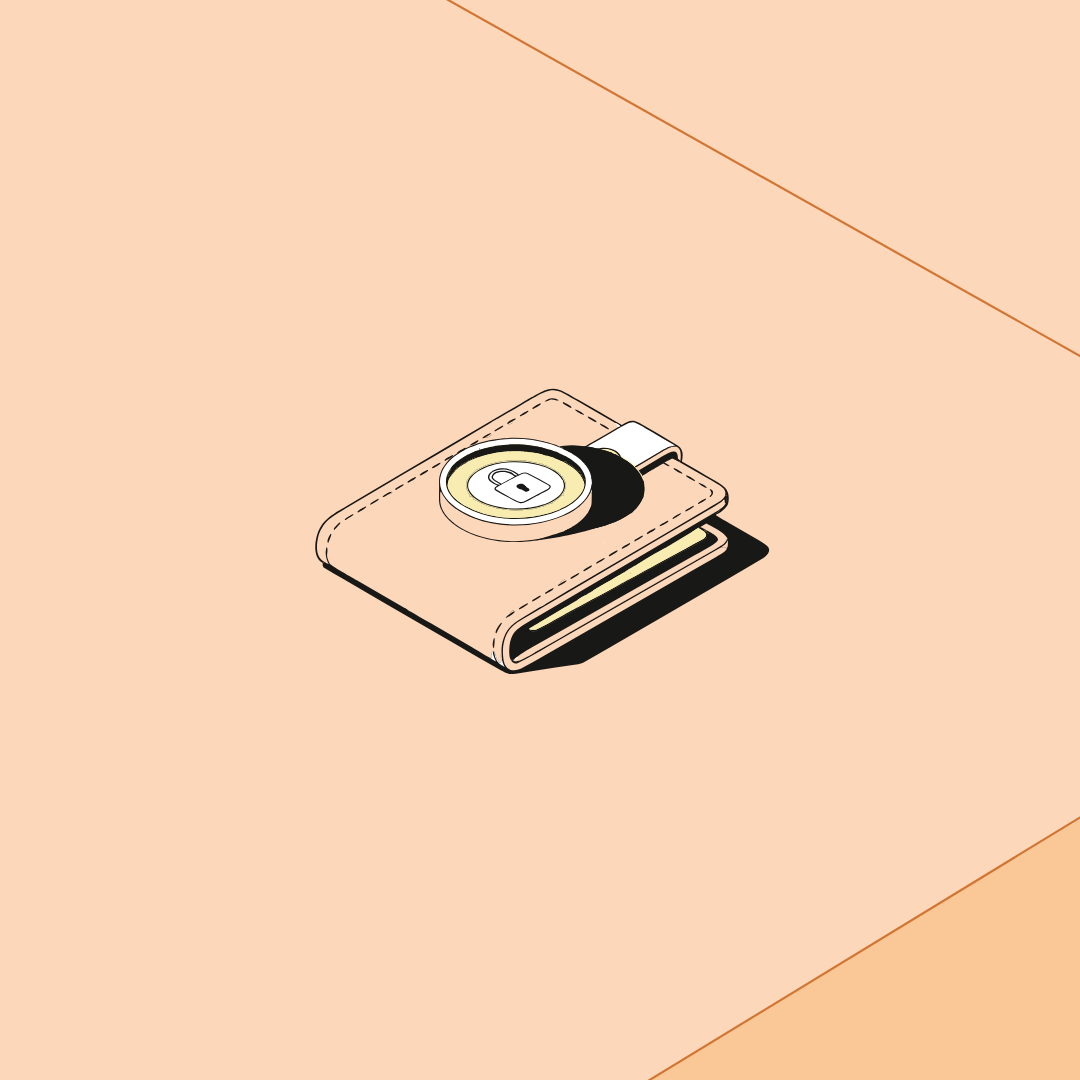
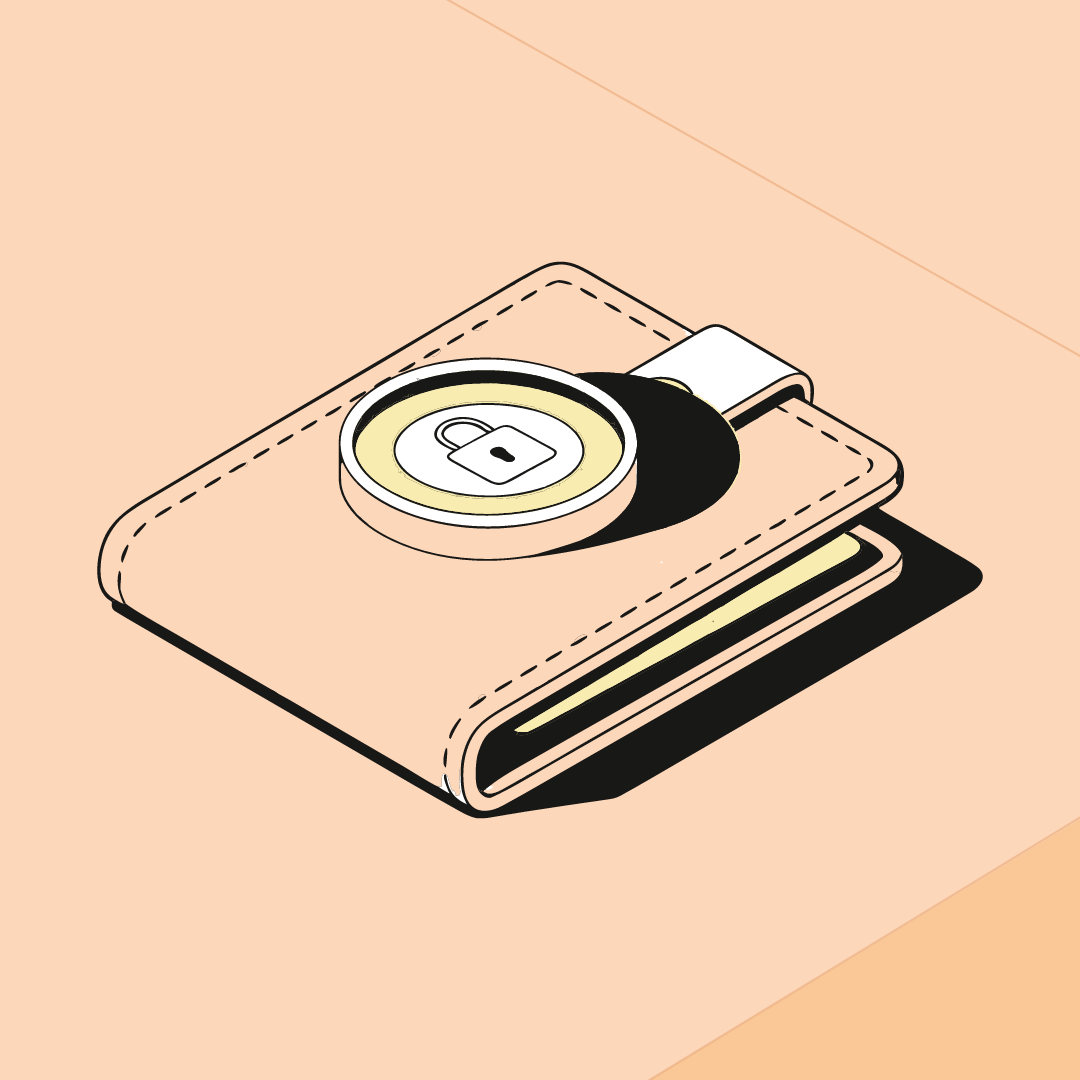
docs: refresh the readme and example scenes
Describe the close-up layout, the compact phone panels, and the compose
source field. Regenerate the three example SVG and PNG files from the
current tag fallback.

diff --git a/scripts/export-examples.test.ts b/scripts/export-examples.test.ts
@@ -1,9 +1,11 @@
 import { mkdirSync, writeFileSync } from 'node:fs';
+import { Resvg } from '@resvg/resvg-js';
 import { describe, it } from 'vitest';
 import { composeScene } from '../src/server/composeScene.ts';
 import { composePick } from '../src/core/compose.ts';
 import { exportSvg } from '../src/core/exportSvg.ts';
 import { resolvePalette } from '../src/core/recolor.ts';
+import { FORMATS } from '../src/model/formats.ts';
 import type { Composition, FormatId } from '../src/model/types.ts';
 
 const examples: {
@@ -64,7 +66,13 @@ describe('example compositions', () => {
           composition,
           resolvePalette(example.paletteId, []),
         );
+        const png = new Resvg(markup, {
+          fitTo: { mode: 'width', value: FORMATS[example.format].w },
+        })
+          .render()
+          .asPng();
         writeFileSync(`examples/${example.slug}.svg`, markup);
+        writeFileSync(`examples/${example.slug}.png`, png);
         console.log(
           example.slug,
           pick.main.join('+'),

diff --git a/README.md b/README.md
@@ -10,24 +10,40 @@
 pnpm install
 pnpm dev
 pnpm test
+pnpm lint
+pnpm build
 pnpm smoke:nvidia
 ```
 
-`pnpm dev` открывает редактор и тот же `POST /api/compose`, что уйдёт на Vercel. `pnpm test` гоняет Vitest. `pnpm smoke:nvidia` делает один живой запрос и печатает id и модель, сам ключ не печатает. В CI его нет.
+`pnpm dev` открывает редактор и тот же `POST /api/compose`, что уйдёт на Vercel. `pnpm test` гоняет Vitest. `pnpm lint` — ESLint и Prettier. `pnpm build` проверяет типы, собирает клиент в `dist` и склеивает функцию `api/compose.js`. `pnpm smoke:nvidia` делает один живой запрос и печатает id и модель, сам ключ не печатает. В CI его нет.
 
 Ключ `NVIDIA_API_KEY` кладётся в `.env.local` (или в `.env`) локально и в Environment Variables проекта Vercel. Сервер читает сначала `process.env`, затем `.env.local`, затем `.env`. Префикс `VITE_` не используется: с ним Vite положил бы ключ в браузер. Образец — `.env.example`.
 
+## Форматы
+
+| Формат      | Кадр      | Где в редакторе |
+| ----------- | --------- | --------------- |
+| горизонталь | 1200×630  | landscape       |
+| квадрат     | 1080×1080 | square          |
+| вертикаль   | 1080×1620 | portrait        |
+
+Размер S или L задаёт заливку героя и какой файл библиотеки берётся. Палитра — одна из трёх схем (Сирень, Персик, Бирюза) или свой JSON.
+
 ## Архитектура
 
-Реестр `src/library/registry.ts` грузит 40 SVG объектов и 6 фонов схем. У каждого объекта id из манифеста (`book`, `phone`, `puzzle`, `coin`, `headphones`, `lamp`, `flowers`, `wallet`, `folder`, `pen`). Внутри файлов Figma повторяет `Vector` и `clip0_0_4`, поэтому id получают префикс: объект — `{objectId}-{size}-{role}-`, фон схемы — `bg-{scheme}-{size}-`, экземпляр на сцене — ещё и `{uid}-`.
+Реестр `src/library/registry.ts` грузит 40 SVG объектов и 6 фонов схем. У каждого объекта id из манифеста (`book`, `phone`, `puzzle`, `coin`, `headphones`, `lamp`, `flowers`, `wallet`, `folder`, `pen`). Внутри файлов Figma повторяет `Vector` и `clip0_0_4`, поэтому `rewriteSvgIds` переписывает id, `url(#id)` и `href`: объект — `{objectId}-{size}-{role}-`, фон схемы — `bg-{scheme}-{size}-`, экземпляр на сцене — ещё и `{uid}-`. Следующий `obj-N` выдаёт `nextUid`.
 
 Перекраска идёт по слотам, не по ближайшему цвету. Исходный hex lilac → слот (`bg.base`, `bg.mid`, `bg.dark`, `ink`, `obj.1`, `obj.2`, `obj.3`, `paper`) → цвет того же слота в выбранной схеме. Фоновые версии монохромные и берут только слоты фона. Белый `paper` в фонах разрешён.
 
-Раскладка — шаблон (`under-title`, `offset`, `compact`). По умолчанию от двух объектов берётся компактный: группа держится у центра, масштаб один на всю сцену. На книгу, папку и кошелёк можно ставить телефон, пазл, ручку и монету по правилам опоры (на папку — пазл, ручка, монета; на кошелёк — монета). Наушники, лампа и ваза только рядом, не поверх. Кто ниже в кадре, тот ближе и выше по z. Фон не перекрывает главные объекты, в кадре видно не меньше 60% его bbox, центр фона остаётся внутри кадра.
+Раскладка — шаблон (`under-title`, `offset`, `compact`). Сначала выбирается герой, самый крупный главный объект, и масштабируется один раз на всю сцену. На L его сторона занимает около 82% короткой стороны кадра (середина полосы 75–90%), на S — около 72% (середина 65–80%). Герой может выходить за край. Второй план садится вплотную и кадр обрезает его примерно до половины бокса: в квадрате и вертикали это один объект (всего два), в горизонтали — до двух. На книгу, папку и кошелёк можно ставить телефон, пазл, ручку и монету по правилам опоры (на папку — пазл, ручка, монета; на кошелёк — монета). Наушники, лампа и ваза только рядом, не поверх. Если главных больше слотов, герой чуть уменьшается внутри допустимой полосы, пока все названные главные остаются в кадре. Кто ниже в кадре, тот ближе и выше по z. Фон не перекрывает главные объекты, в кадре видно не меньше 60% его bbox, центр фона остаётся внутри кадра.
 
-`POST /api/compose` принимает `{ text, format }`. Цепочка NVIDIA: `nvidia/nemotron-3.5-lightning-30b-a3b` с `chat_template_kwargs.enable_thinking: false`, при ошибке, таймауте (~9 с) или 429 — `z-ai/glm-5.3-flash`, затем фолбэк по тегам. Без ключа сразу теги. Клиент ключ не отправляет.
+`POST /api/compose` принимает `{ text, format }`. Цепочка NVIDIA: `nvidia/nemotron-3.5-lightning-30b-a3b` с `chat_template_kwargs.enable_thinking: false`, при ошибке, таймауте (~9 с) или 429 — `z-ai/glm-5.3-flash`, затем фолбэк по тегам. Без ключа сразу теги. Ответ — JSON с полями `main`, `background`, `template`, `reason` и `source`: `model` или `tags`. У ответа модели есть ещё `model`. Клиент ключ не отправляет.
+
+На ширине до 640px холст стоит первым, под ним панель, строка запроса, библиотека и инспектор. Блоки «Режим», «Масштаб» и «Палитра JSON» свёрнуты; на широком экране они раскрыты. Кнопки панели листаются по горизонтали.
 
 «Скачать SVG» пишет файл размера кадра. У каждого объекта именованная группа `<g>`, id только ASCII (`^[A-Za-z0-9_-]+$`), кириллица остаётся в `data-name`. Корень — группа `composition`, обрезка — `clipPath` `frame-clip`. Нет `<use>`, `<image>` и `foreignObject`, цвета запечены в заливки. Файл импортируется в Figma как редактируемые слои.
+
+Состояние сцены — Zustand (`src/store`). Редьюсер композиции, разбор сохранённой палитры, строка запроса и горячие клавиши разложены на небольшие функции. Клиент и `api/compose.js` собираются раздельно: esbuild кладёт серверный обработчик в один файл без импортов `.ts`.
 
 ## Допущения
 
@@ -35,17 +51,17 @@ pnpm smoke:nvidia
 
 ## Инструменты
 
-Редактор и сервер написаны в Cursor: cloud agents, ведущая модель grok-4.7 high, хелперы composer-2.5. Экспорт сверялся импортом в Figma через Figma MCP. В рантайме режима «Смысл» отвечают модели NVIDIA build API, перечисленные выше.
+Редактор и сервер написаны в Cursor: cloud agents, ведущая модель grok-4.7, хелперы composer-2.5. Экспорт сверялся импортом в Figma через Figma MCP. В рантайме режима «Смысл» отвечают модели NVIDIA build API, перечисленные выше.
 
 ## Примеры
 
-Три сцены собраны без ключа NVIDIA, фолбэком по тегам. Это честный результат `composeScene` без `apiKey`, не ответ модели.
+Три сцены собраны без ключа NVIDIA, фолбэком по тегам (`source: "tags"`). Это результат `composeScene` без `apiKey`, не ответ модели. Размер L.
 
-| Запрос         | Формат    | Схема  | Объекты               |
-| -------------- | --------- | ------ | --------------------- |
-| учёба          | 1200×630  | Сирень | книга, ручка на книге |
-| деньги         | 1080×1080 | Персик | монета на кошельке    |
-| работа в офисе | 1080×1620 | Бирюза | лампа и папка рядом   |
+| Запрос         | Формат    | Схема  | Объекты                                     |
+| -------------- | --------- | ------ | ------------------------------------------- |
+| учёба          | 1200×630  | Сирень | книга крупно, ручка лежит на книге          |
+| деньги         | 1080×1080 | Персик | кошелёк крупно, монета на нём, край обрезан |
+| работа в офисе | 1080×1620 | Бирюза | лампа крупно, папка обрезана нижним краем   |
 
 ![Учёба, горизонталь, Сирень](examples/ucheba-landscape-lilac.png)
 
@@ -59,14 +75,20 @@ pnpm smoke:nvidia
 
 [SVG](examples/office-portrait-teal.svg)
 
-PNG — скриншот того же SVG в headless Chrome (Playwright). Повторить SVG: `EXPORT_EXAMPLES=1 pnpm exec vitest run scripts/export-examples.test.ts`.
+PNG — растр того же SVG через resvg, в размер кадра. Повторить SVG и PNG: `EXPORT_EXAMPLES=1 pnpm exec vitest run scripts/export-examples.test.ts`.
 
 ## Демо
 
 https://ochen-svg-composer.vercel.app
 
-TODO: ссылка на видео.
+## Видео-демо
+
+Видео-демо: ссылка будет добавлена
 
 ## Деплой
 
 `vercel.json` собирает Vite (`pnpm build` → `dist`). `POST /api/compose` — отдельная функция: `pnpm build` склеивает её esbuild в один `api/compose.js` без импортов `.ts`, манифест библиотеки уже внутри файла. У функции `maxDuration` 30 секунд: два таймаута по 9 секунд не укладываются в 10. На Hobby-плане платформа может срезать лимит до 10 секунд. Ключ задаётся только в окружении Vercel, в клиентский бандл он не попадает.
+
+## Тесты
+
+`pnpm test` покрывает подбор по именам и тегам, цепочку модели с фолбэком, раскладку крупного плана, перекраску, экспорт SVG и редактор. `pnpm lint` и `pnpm build` должны проходить вместе с тестами.
